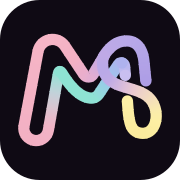
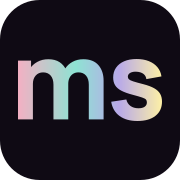
feat: ícono «ms» con degradado y tarjeta completa para redes
- El ícono del sitio (pestaña e inicio del celular) deja el monograma y pasa
  a «ms» en Manrope ExtraBold con el degradado de los cuatro pasteles
  (tools/icono.mjs, letras en trazos).
- Etiquetas para compartir: og:image con tipo y URL segura, y las de
  Twitter/X (título, descripción, imagen y su texto alternativo).

Changed region(s): [[0.0833, 0.1667, 0.9167, 0.8333]]

diff --git a/src/plantilla/head.ts b/src/plantilla/head.ts
@@ -13,7 +13,9 @@ export function renderHead(lang: Lang) {
     'Portfolio of María Sanjuán, front-end developer and UX/UI designer in Bogotá. Eight years building interfaces for teams in Spain, Germany and Colombia, now with multi-agent AI. Interactive case studies: Lúmina Tech and Lúmina Campus.',
     'Portafolio de María Sanjuán, desarrolladora front-end y diseñadora UX/UI en Bogotá. Ocho años construyendo interfaces para equipos de España, Alemania y Colombia, hoy con IA multiagente. Casos interactivos: Lúmina Tech y Lúmina Campus.',
   );
+  // La tarjeta para redes (1200 × 630): la generan tools/cv.mjs y og.html.
   const og = `${PERFIL.sitio}/og/maria-sanjuan-${lang}.jpg`;
+  const altOg = L('María Sanjuán’s portrait drawn with lines of code, next to her name.', 'El retrato de María Sanjuán dibujado con líneas de código, junto a su nombre.');
   const jsonld = {
     '@context': 'https://schema.org',
     '@graph': [
@@ -65,12 +67,18 @@ export function renderHead(lang: Lang) {
   <meta property="og:description" content="${description}" />
   <meta property="og:url" content="${url}" />
   <meta property="og:image" content="${og}" />
+  <meta property="og:image:secure_url" content="${og}" />
+  <meta property="og:image:type" content="image/jpeg" />
   <meta property="og:image:width" content="1200" />
   <meta property="og:image:height" content="630" />
-  <meta property="og:image:alt" content="${L('María Sanjuán’s portrait drawn with lines of code, next to her name.', 'El retrato de María Sanjuán dibujado con líneas de código, junto a su nombre.')}" />
+  <meta property="og:image:alt" content="${altOg}" />
   <meta property="profile:first_name" content="María" />
   <meta property="profile:last_name" content="Sanjuán" />
   <meta name="twitter:card" content="summary_large_image" />
+  <meta name="twitter:title" content="${title}" />
+  <meta name="twitter:description" content="${description}" />
+  <meta name="twitter:image" content="${og}" />
+  <meta name="twitter:image:alt" content="${altOg}" />
 
   <script>document.documentElement.classList.remove('no-js');try{var m=localStorage.getItem('ms:modo');if(m==='diseno'||m==='codigo')document.documentElement.dataset.modo=m}catch(e){}</script>
   <noscript><style>.cargador{display:none}</style></noscript>

diff --git a/README.md b/README.md
@@ -26,7 +26,8 @@ npm run dev        # http://localhost:5173
 | `npm run cv` | Genera la hoja de vida (ES y EN) en PDF y las tarjetas para redes |
 | `npm run auditoria` | Auditoría de accesibilidad (axe) y desbordes, escritorio y móvil |
 | `npm run retrato` | Recorta la foto y calcula su profundidad (modelos locales) |
-| `npm run monograma` | Genera el monograma en vector (hoy solo lo usa el ícono) |
+| `npm run icono` | Genera el ícono del sitio: «ms» con el degradado pastel |
+| `npm run monograma` | Genera el monograma en vector (archivado: el sitio usa su nombre) |
 
 ## Publicación
 
